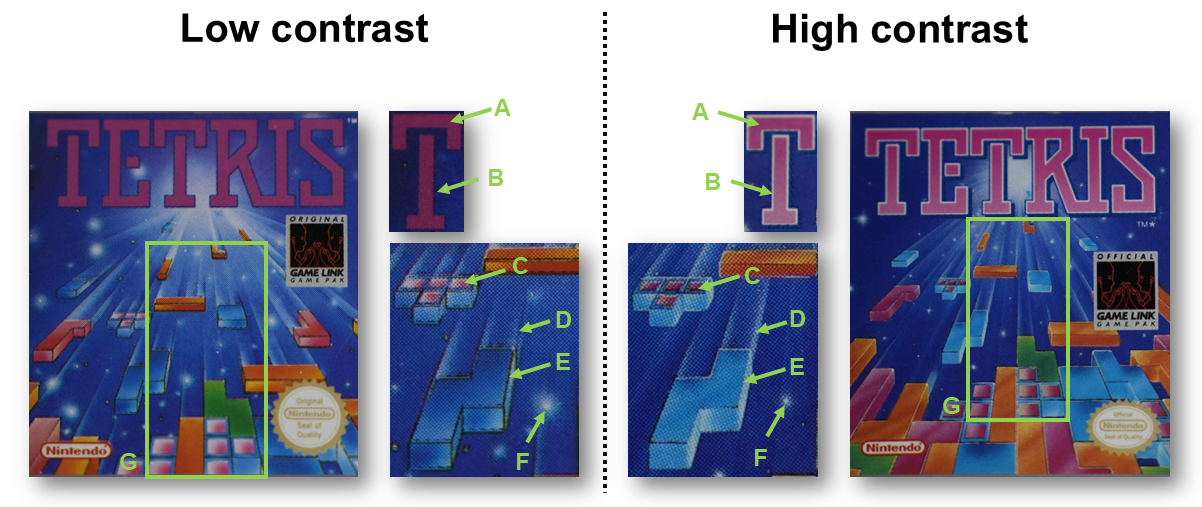
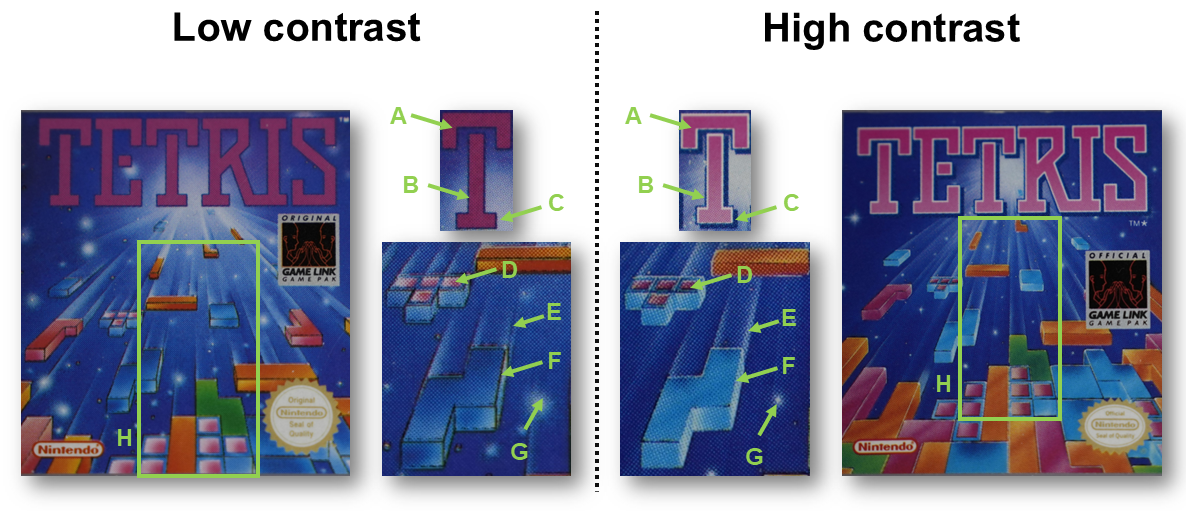
some minor updates

diff --git a/Collection/Game-Boy-Tetris.html b/Collection/Game-Boy-Tetris.html
@@ -97,7 +97,7 @@
                     Nintendo Tetris for the Game Boy was released in 1989 in Japan (June 14th) and later that year (July 31st) in the USA. Europe and the rest of the world had to wait until September 28, 1990. Some regions might had to wait until as late as 1996.
                 </p>
                 <p>
-                    As a reference, the Berlin Wall was torned down November 9th, 1989 which places the major releases in this very influencial time frame.
+                    As a reference, the Berlin Wall was torned down November 9th, 1989 which places the major initial releases in this very influencial time frame.
                 </p> 
                 <p>
                     Tetris for the Game Boy was produced between 1989 and at least until the end of 1997 and was later officially distributed by other means e.g. for the Nintendo Power carts to write to re-writeable carts in Kiosks, the Nintendo DS or the Nintendo Switch (NSO sevice).
@@ -287,6 +287,8 @@
                     I will admit, I'm not an expert on boxes and the information provided here might not be fully accurate nor complete.
                 </p>
                 <img src="images/Boxes.png">
+                
+                <h3>Japanese Boxes</h3>
                 <p>
                     The smaller, Japanese boxes had at least 3 revisions whose differences can be found on the backside. Note that the box revision 1a was done during the Minuets lifespan. That's why Minuet can be found in both early box types.
                 </p>
@@ -308,11 +310,14 @@
                     Another thing to note is the change of Pajitnovs last name. Since there is not always a one to one mapping from cyrillic letters to latin letters, certain assumptions have to made, mostly based on phonetics. Initially his last name was written as PAZHITNOV and later as Pajitnov. 
                 </p>
 
+                <h3>International Boxes</h3>
                 <p>
                     International boxes came in various languages such as English, German or French.
                 </p>
                 <hr>
-                <h3>Twin Pack</h3>
+                <p>
+                    <strong>Twin Pack</strong>
+                </p>
                 <p>
                     There is a special Twin-Pack box, where Tetris and Tetris 2 were sold together. I find it quite ironic that this original box shows the 1-player indicator instead of the 2-player indicator on the Tetris side (left).
                 </p>
@@ -324,8 +329,49 @@
 
                 <h3>The Bullet-Proof Style Logo</h3>
                 <p>
-                    Bullet-Proof-Software was Henk Rogers software company that existed since 1983. Before the Game Boy (and the NES) versions, they released at least 2 Tetris variants. Both of these versions had the same logo, which uses the <strong>Futura Black</strong> font face. This logo-type continued to be used on countless other versions.<br>
+                    Even though Nintendo produced Game Boy Tetris, Bullet-Proof-Software convinced Nintendo to use their Tetris logo, at least for the Japanese Market, as well as in-game on both: The Game Boy and the NES version. Bullet-Proof Software was Henk Rogers company that existed since 1983. Before the Game Boy (and the NES) versions, they released at least 2 Tetris variants. Both of these versions had the same logo, which uses the <strong>Futura Black</strong> font face. This logo-type continued to be used on countless other versions.
                 </p>
+                <div class="remark">
+                    <strong>Side note:</strong><br>
+                    The later, very well-known "Tetris Melody" was used before in earlier BPS releases. This Tetris melody is the A-Type melody on v1.1 and is based on the traditional Russian folk song Korobeiniki (aka Korobushka).
+                    <p>
+                        Which means that not only did Henk Rogers convince Nintendo to use his logo, but also later the melody - what a great idea in hinsight! But quite frankly, Nintendo owed him big time for securing the the rights.<br>
+                    </p>
+                    <p>
+                        The Korobeiniki as used in the Game Boy version, is culturally deeply connected to Tetris in the minds of people.
+                    </p>
+                    <p>
+                        The story is very similar to the melody of Super Mario World for the SNES. In this case the melody from the song "Green Green" first entered Japan and was then caught up by the composer and a rendition was used in game.<br> 
+                        The original Korobeiniki is in parts quite different to the Tetris Melody. But in 1962, long before Tetris, the Korobeiniki was adapted:<br>
+                    </p>
+                    <table>
+                        <tr>
+                            <th>&nbsp;</th>
+                            <th>Super Mario World (SNES)</th>
+                            <th>Tetris</th>
+                        </tr>
+                        <tr>
+                            <th>Original song</th>
+                            <td><a href="https://www.youtube.com/watch?v=PfxgbsXeTdE" target="_blank">Green Green</a></td>
+                            <td><a href="https://www.youtube.com/watch?v=yHqiPqDvMDs" target="_blank">Коробейники</a></td> 
+                        </tr>
+                        <tr>
+                            <th>Japanese transcription</th>
+                            <td><a href="https://www.youtube.com/watch?v=_rUdUj8ch58" target="_blank">グリーン・グリーン</a></td>
+                            <td><a href="https://www.youtube.com/watch?v=fGcUQhL3BRo" target="_blank">コロブチカ (フォークダンス)</a></td>
+                            
+                        </tr>
+                        <tr>
+                            <th>In-game rendition</th>
+                            <td><a href="https://www.youtube.com/watch?v=tAaGKo4XVvM" target="_blank">Super Mario World Theme</a></td>
+                            <td><a href="https://www.youtube.com/watch?v=z3ZiVn5L9vM" target="_blank">Game Boy Tetris A-Type melody (v1.1)</a></td>
+
+                        </tr>
+                    </table>
+                    <p>
+                        It is likely no conincidence that this rendition very closely resembles the Tetris melody - moreso than the original Korobeiniki.
+                    </p>
+                </div>
                 <img src="images/Bullet-Proof-Style-Logo.png">
                 <p>
                     <ol>
@@ -351,6 +397,43 @@
                     A new logo was created for the American / International market. This logo is found on the labels, other than the Japanese ones, and the box art. The artwork (box and label) is shared with the NES version.
                 </p>
                 <img src="images/Boxart-NES-Game-Boy.png">
+
+                <h2>The Label Types</h2>
+                <p>
+                    Every game collector can confirm, that when it comes to Nintendo, Japanese and international labels, box art etc. are in general different - Game Boy Tetris is no exception. There are various reasons for this. The general building blocks are the following:
+                </p>
+
+                <h3>The Japanese Labels</h3>
+                <img src="images/JAP-Label.PNG">
+                <p>
+                    The division into an upper strip and artwork is not a fixed rule but rather a deliberate choice by the graphic designers and, potentially, the marketing team.<br>
+                    While on other games, the label typically includes most of these elements, their exact positioning was somewhat flexible. This variation is more pronounced in Japanese cartridges compared to their international counterparts.
+                </p> 
+
+                <h3>The International Labels</h3>
+                <img src="images/Intl-Label.PNG">
+                <p>&nbsp;</p>      
+
+                <p>
+                    <strong>Low Contrast and High Contrast Label Revisions</strong>
+                </p>
+                <img src="images/label-revisions.png">
+                <p>Ignore the other elements on the label.</p>
+                <p>The artwork was basically overhauled while staying as true to the previous label as possible.</p>
+                <ul>
+                    <li>A: Solid color &rarr; gradient</li>
+                    <li>B: Dark outlines &rarr; bright outlines</li>
+                    <li>C: Drop shadow added</li>
+                    <li>D: Regions darkened or brightened</li>
+                    <li>E: Brighter lines</li>
+                    <li>F: Dark outlines removed</li>
+                    <li>G: Stars re-drawn</li>
+                    <li>H: Background elements moved upwards</li>
+                </ul>      
+                <p>
+                    The coloring in the T-blocks in the stack for example have been shaded differently. They went from a radial gradient to a linear gradient. This indicates that the coloring likely has been done from scratch.
+                </p>
+
                 <p>
                     In order to give the artwork more contrast, and therefore make the elements more distinguishable, some measures were taken over time. Most notably the letter outlines.
                 </p>
@@ -415,38 +498,9 @@
                 <p>
                     Logo Type: s = solid letter color, i = intermediate, o = outlined letters
                 </p>
-
-                <h2>The Label Types</h2>
                 <p>
-                    Every game collector can confirm, that when it comes to Nintendo, Japanese and international labels, box art etc. are in general different - Game Boy Tetris is no exception. There are various reasons for this. The general building blocks are the following:
+                    Very intersting is that s2 seems to be even a newer label revision than the outlined ones and seems only been used in the DMG-TR-EUR version which might be released as late as 1997. 
                 </p>
-
-                <h3>The Japanese Labels</h3>
-                <img src="images/JAP-Label.PNG">
-                <p>
-                    The division into an upper strip and artwork is not a fixed rule but rather a deliberate choice by the graphic designers and, potentially, the marketing team.<br>
-                    While on other games, the label typically includes most of these elements, their exact positioning was somewhat flexible. This variation is more pronounced in Japanese cartridges compared to their international counterparts.
-                </p> 
-
-                <h3>The International Labels</h3>
-                <img src="images/Intl-Label.PNG">
-                <p>&nbsp;</p>      
-
-                <p>
-                    <strong>Low Contrast and High Contrast Label Revisions</strong>
-                </p>
-                <img src="images/label-revisions.png">
-                <p>Ignore the other elements on the label.</p>
-                <p>The artwork was basically overhauled while staying as true to the previous label as possible.</p>
-                <ul>
-                    <li>A: Solid color &rarr; gradient</li>
-                    <li>B: Dark outlines &rarr; bright outlines</li>
-                    <li>C: Regions darkened or brightened</li>
-                    <li>D: Brighter lines</li>
-                    <li>E: Dark outlines removed</li>
-                    <li>F: Stars re-drawn</li>
-                    <li>G: Background image moved</li>
-                </ul>      
 
                 <h2>This Side Out Text</h2>
                 <p>
@@ -519,40 +573,40 @@
                     </p>
                 
                 <h2>Manufacturing Origin</h2>
-                <p>
-                    <table>
-                        <tr>
-                            <th>Text</th>
-                            <th>Language</th>
-                        </tr>
-                        <tr>
-                            <td><strong>MADE IN JAPAN</strong></td>
-                            <td>English</td>
-                        </tr>
-                        <tr>
-                            <td>
-                            <strong>FABRIQUÉ AU JAPON</strong><br>
-                                or<br>
-                            <strong>FABRIQUE AU JAPON</strong><br>
-                                or<br>
-                            <strong>FAIT AU JAPON</strong>
-                            </td>
-                            <td>French</td>
-                        </tr>
-                        <tr>
-                            <td><strong>FABBRICATO IN GIAPPONE</strong></td>
-                            <td>Italian</td>
-                        </tr>
-                        <tr>
-                            <td><strong>MADE IN CHINA</strong></td>
-                            <td>English</td>
-                        </tr>
-                        <tr>
-                            <td><strong>中国制造</strong> (Made in China)</td>
-                            <td>Chinese</td>
-                        </tr>
-                    </table>
-                </p>
+                <p>The parts for almost all carts were manufactured in Japan. The exception in China, who took production in their own hands.</p>
+                <table>
+                    <tr>
+                        <th>Text</th>
+                        <th>Language</th>
+                    </tr>
+                    <tr>
+                        <td><strong>MADE IN JAPAN</strong></td>
+                        <td>English</td>
+                    </tr>
+                    <tr>
+                        <td>
+                        <strong>FABRIQUÉ AU JAPON</strong><br>
+                            or<br>
+                        <strong>FABRIQUE AU JAPON</strong><br>
+                            or<br>
+                        <strong>FAIT AU JAPON</strong>
+                        </td>
+                        <td>French</td>
+                    </tr>
+                    <tr>
+                        <td><strong>FABBRICATO IN GIAPPONE</strong></td>
+                        <td>Italian</td>
+                    </tr>
+                    <tr>
+                        <td><strong>MADE IN CHINA</strong></td>
+                        <td>English</td>
+                    </tr>
+                    <tr>
+                        <td><strong>中国制造</strong> (Made in China)</td>
+                        <td>Chinese</td>
+                    </tr>
+                </table>
+               
                 <h2>Nintendo Seal of Quality</h2>
                 <p>The Seal of Quality is a proof, that the game was endorsed by Nintendo.<br>
                     The general rule for the Seal of Quality is as follows.<br>
@@ -765,9 +819,9 @@
                 <h3>The Curious Case of Missing Dashes on USA versions</h3>
                 <p>Some early USA versions have faded or missing dashes. This can be either a worn-out dash, one missing dash or both missing dashes.</p>
                 <p>While some collecters regard these as separate versions, many speculate that the origin is likely due to a faulty printing process where the black ink was slowly fading. Nevertheless, not a bad thing to own them.</p>
-                <img src="images/no-dashes.png">
+                <img src="images/no-dashes-new.png">
                 <p>
-                    The image above strongly supports the fading theory. (Image credits: fading and one dash: Pichaco)
+                    The image above strongly supports the depletion / fading theory. (Image credits: fading and one dash: Pichaco)
                 </p>
 
                 <h2>Player Indicator Icon</h2>
@@ -1000,6 +1054,13 @@
                     *As far as we know, the cart with imprint 22 is the only minuet version that has the same label artwork as the Japanese version 1.1.<br>
                     It is very well possible that there are other minuet versions that have the updated label.
                 </p>
+                <p>
+                    <img src="images/A-Imprints.png">
+                </p>
+                <p>
+                    I counted the imprints found on my cartridges - excluding the Minuet carts (n = 46). I found that the vast majority of imprints are of type 23A and 22A.<br>
+                </p>
+
                 <hr>
                 <h3>How to Spot the Minuet Version</h3>
                 <b>The right way!</b>
@@ -1022,8 +1083,7 @@
                 <h2>PCBs</h2>
 
                 <p>
-                    Tetris fits neatly in 32kb of ROM space without the need of an MBC (memory bank controller) or sRAM functionality on the PCB.<br>
-                    Which makes the cart as simple as can be. Earlier iterations of the game used the AAA Boards - these are boards with a single ROM chip and a resistor. They came in 3 iterations. Conviniently named 01, 02 and 03.<br>
+                    Tetris fits neatly into 32KB of ROM space without the need of an MBC (memory bank controller) or sRAM. This makes the cart as simple as can be. Earlier iterations of the game used the AAA Boards - these are boards with a single ROM chip and a resistor. They came in 3 iterations. Conviniently named 01, 02 and 03.<br>
                 </p>
                 <p>    
                     <strong>Example:</strong> DMG-AAA-02
@@ -1072,9 +1132,44 @@
                                 <li>unknown digit (letter D or E or number)</li>
                             </ul>
                         </li>
-                    </ul>
-                    
+                    </ul>  
                 </p>
+
+                <h2>The Plastic Parts (Front / Back)</h2>
+                <p>
+                    Each cart consists of a back and front half, made of plastic. The front half has the label sticked onto and the back contains the manufacturing origin of the plastic parts.
+                </p>
+                <p>
+                    As stated previously, all parts were manufactured in Japan and shipped to the distribution centers. Except for the Chinese parts, that were made in China. Therefore, we can find:
+                    <ul>
+                        <li>MADE IN JAPAN</li>
+                        <li>MADE IN CHINA</li>
+                    </ul>
+                </p>
+                <p>
+                    Below the origin declaration, the inscription PAT. PENDING can be seen. This signals that a Patent has been filed but not been registered.
+                </p>
+                
+                <h3>Back- and Front Numbers</h3>
+                <p>
+                    Each plastic part contains an identifier. F for front and B for back followed by a dash and a number.
+                </p>
+                <p>
+                    e.g. F-15 / B-31
+                </p>
+                <p>
+                    The numbers span from 1 to 60 and front and back are independently joined. They don't seem to have any further function.
+                </p>
+                <p>
+                    The range 1-60 leads me to believe that these parts were punched in arrays of maybe 10&cross;6 and were then collected in containers and brought to the assembly workers who then randomly picked a front and a back, added the PCB, a sticker and screwed the carts together and put them in the protection cover. There really seems to be no more to it than that. The numbers are very evenly distributed and show no combinatory patterns. I guess the number on faulty parts could indicate which of the spots in the array might exhibit a problem and needs replacement.
+                </p>
+                <p>
+                    One observation however I made, was one single number that did not follow the pattern. This was found on an DMG-TR-EUR cart and was:
+                </p>
+                <p>
+                    F-16-1
+                </p>
+
                 <h2>Prototype Cart (1989)</h2>
                 <p>
                     Only one Tetris prototype cart surfaced by now. The contained ROM file is identical to the ROM found on ealier Japanese releases, also known as v1.0 or the Minuet Version.<br>
